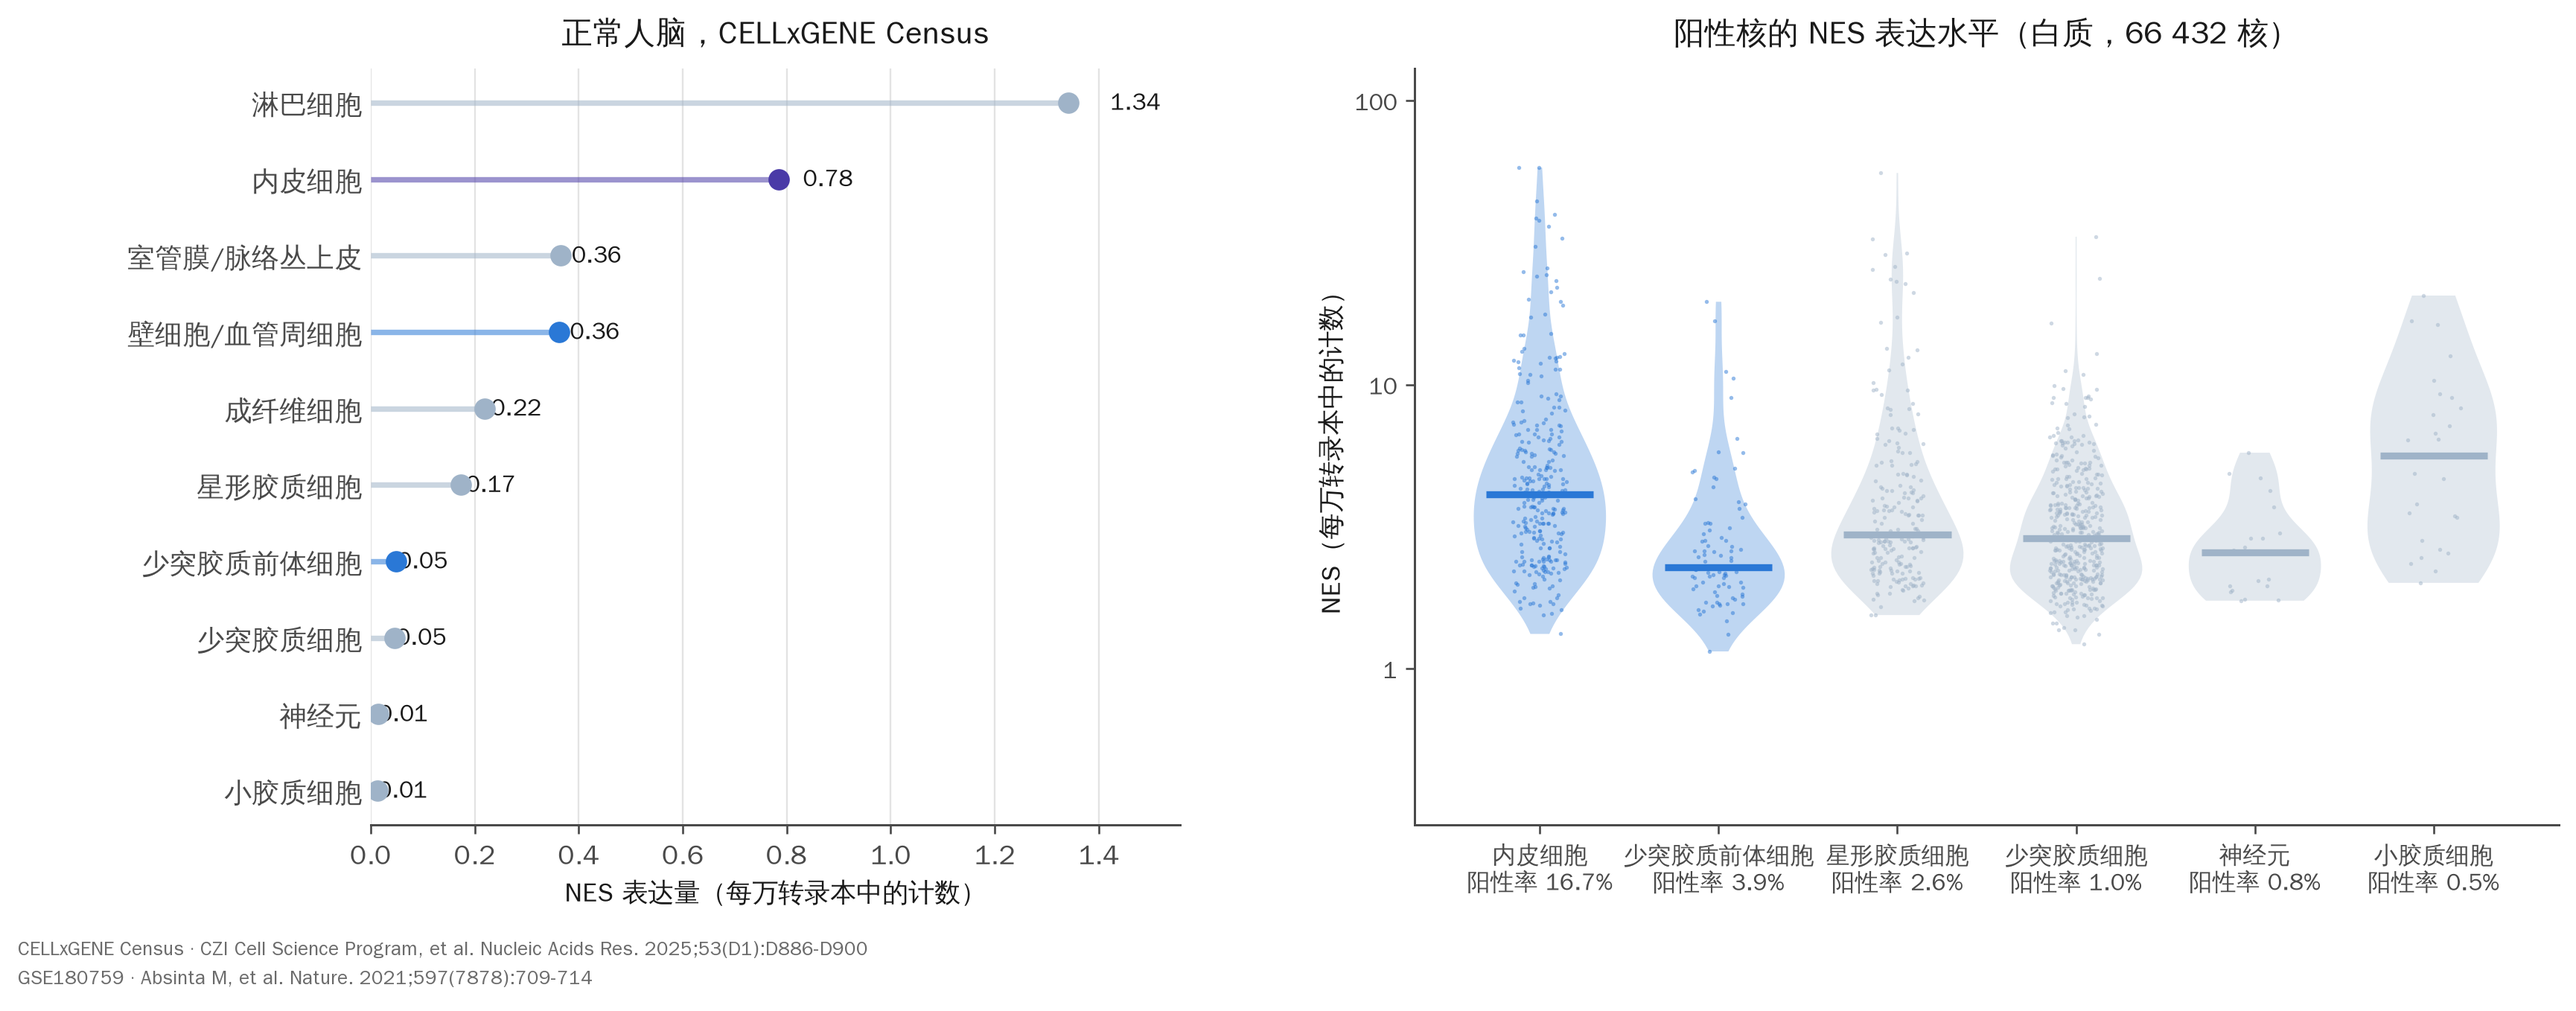
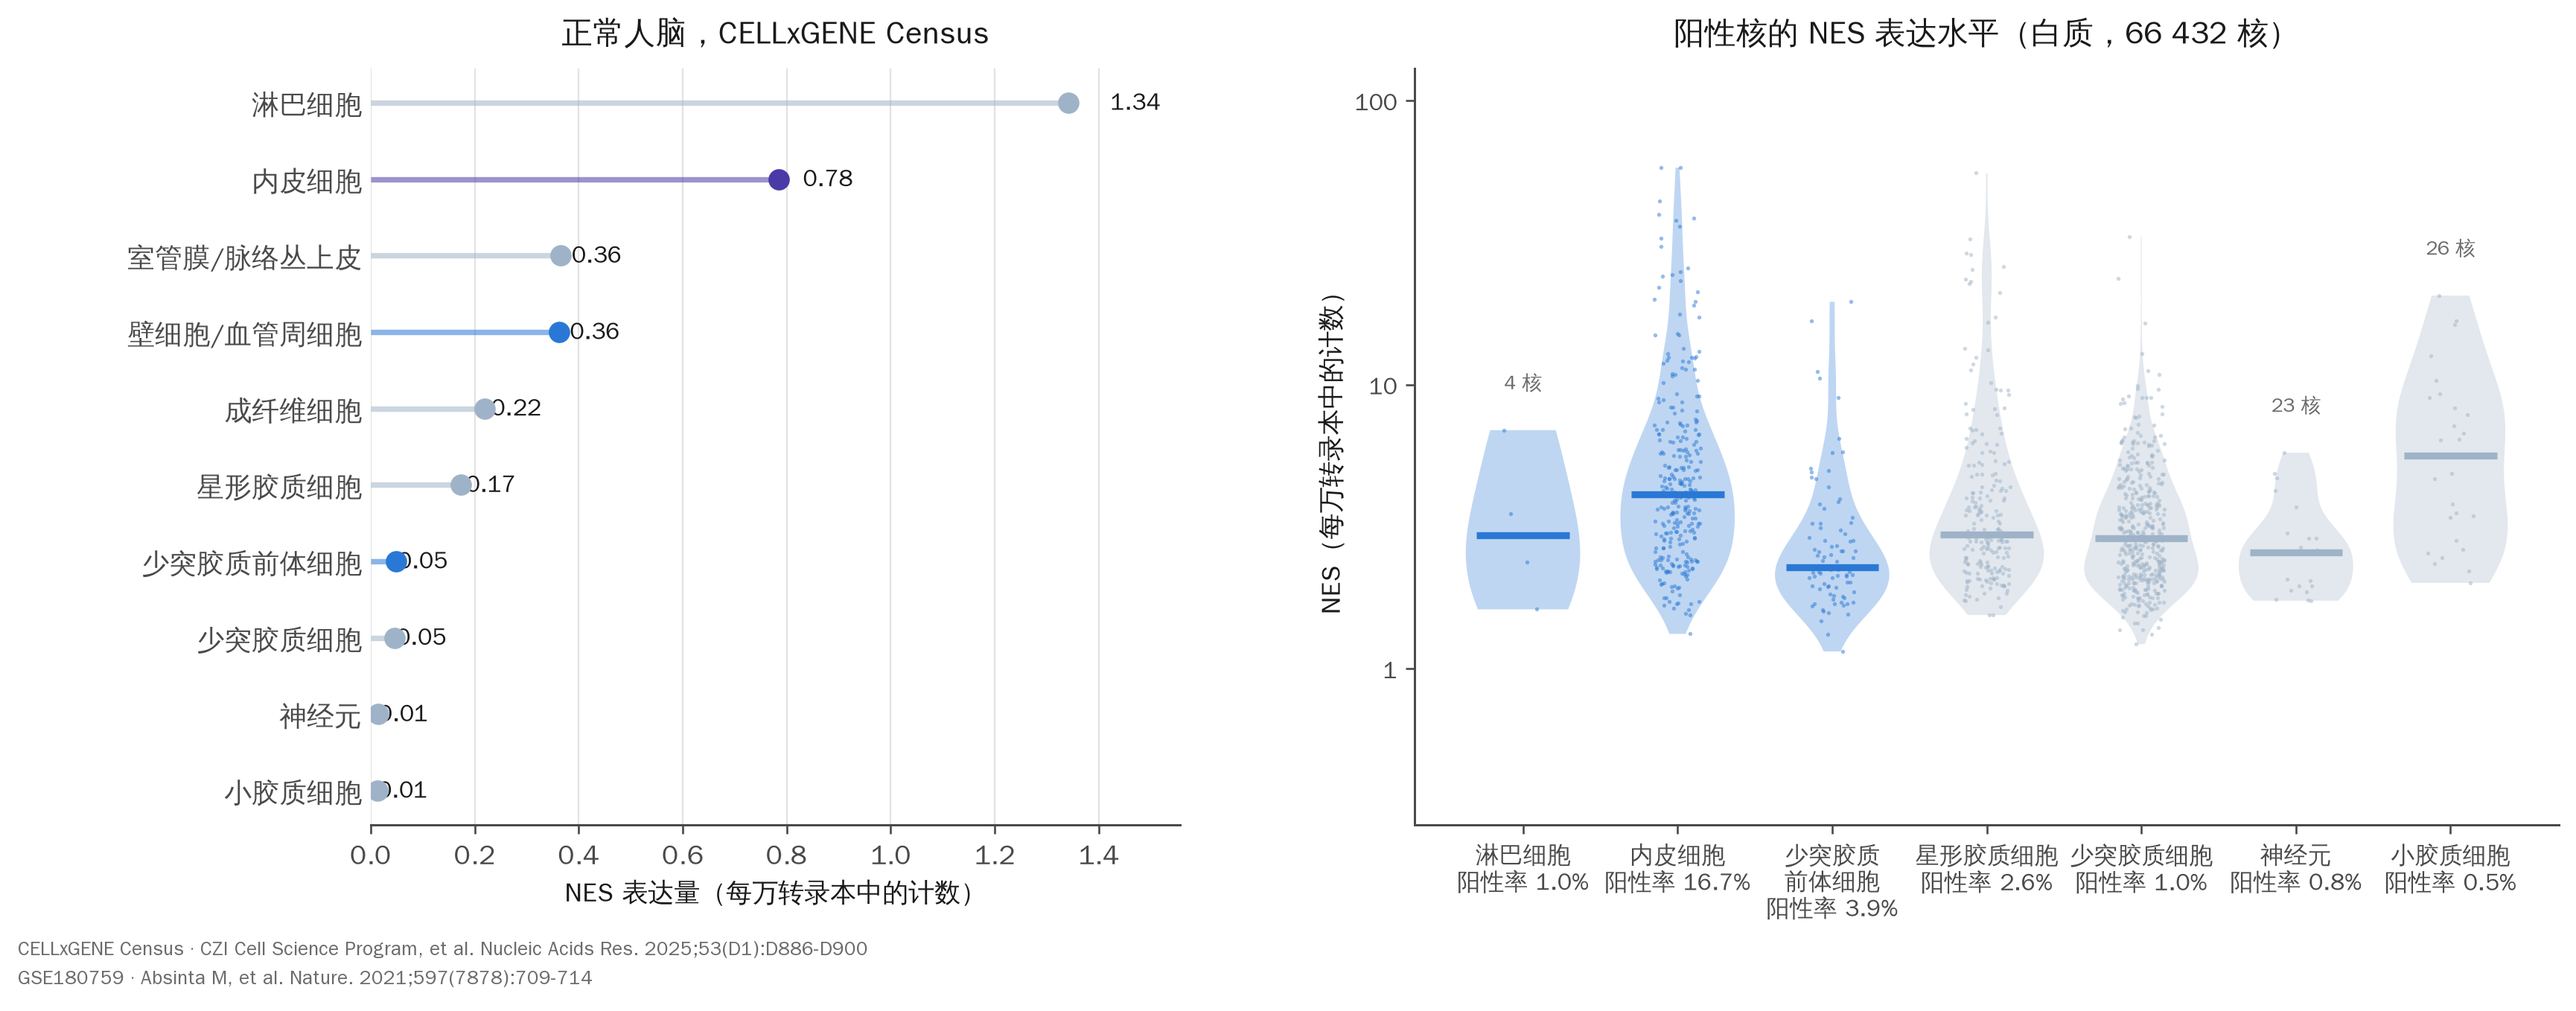
Put lymphocytes back into the Nestin single-nucleus panel
They were missing from the panel's cell-type list while topping the Census
ranking beside it, so the one row a reader would go to the right-hand panel to
check was the one row absent.

With them present the two panels disagree openly: Census puts 19 percent of
brain lymphocytes NES-positive, white matter puts 1 percent, on four positive
nuclei out of 406. Panels with fewer than thirty positive nuclei now carry
that count above the violin.

Claude-Session: https://claude.ai/code/session_01Puq8M8AiJGJDbdbxajvkZL

Changed region(s): [[0.5618, 0.1856, 0.9676, 0.6495], [0.5618, 0.8351, 0.9676, 0.9278], [0.9676, 0.4021, 0.9988, 0.4639]]

diff --git a/scripts/mda5/mkfig_nes.py b/scripts/mda5/mkfig_nes.py
@@ -21,9 +21,10 @@ NAME = {'endothelial': '内皮细胞', 'fibroblast': '成纤维细胞',
         'OPC': '少突胶质前体细胞', 'oligodendrocyte': '少突胶质细胞', 'neuron': '神经元'}
 CT180 = {'oligodendrocytes': '少突胶质细胞', 'astrocytes': '星形胶质细胞',
          'immune': '小胶质细胞', 'neurons': '神经元', 'opc': '少突胶质前体细胞',
-         'vascular_cells': '内皮细胞'}
-ORDER180 = ['vascular_cells', 'opc', 'astrocytes', 'oligodendrocytes',
-            'neurons', 'immune']
+         'vascular_cells': '内皮细胞', 'lymphocytes': '淋巴细胞'}
+# 淋巴细胞必须在列：它是左图的第一名，读者会到右图核对。
+ORDER180 = ['lymphocytes', 'vascular_cells', 'opc', 'astrocytes',
+            'oligodendrocytes', 'neurons', 'immune']
 
 base = pd.read_csv(RES + 'out_nes_baseline.csv')
 base = base[base.grp.isin(NAME)].copy()
@@ -60,12 +61,12 @@ ax.grid(axis='x', color=F.HAIR, lw=0.7, alpha=0.7); ax.set_axisbelow(True)
 ax2 = fig.add_subplot(gs[0, 1])
 rng = np.random.default_rng(3)
 tops = []; xlab = []
-order = [k for k in ORDER180 if (ctrl.ct == k).sum() > 400]
+order = [k for k in ORDER180 if (ctrl.ct == k).sum() >= 200]
 for i, k in enumerate(order):
     v = ctrl[ctrl.ct == k].CP10k.values
     nz = v[v > 0]
-    col = F.BLUE if k in ('vascular_cells', 'opc') else '#9fb3c8'
-    if len(nz) > 5:
+    col = F.BLUE if k in ('vascular_cells', 'opc', 'lymphocytes') else '#9fb3c8'
+    if len(nz) >= 3:
         p = ax2.violinplot([np.log10(nz)], positions=[i], widths=0.74,
                            showextrema=False, showmedians=False)
         for b in p['bodies']:
@@ -75,8 +76,12 @@ for i, k in enumerate(order):
                     s=2.6, color=col, alpha=0.5, linewidths=0, rasterized=True)
         ax2.hlines(np.log10(np.median(nz)), i - 0.3, i + 0.3, color=col, lw=2.8, zorder=6)
         tops.append(np.log10(nz).max())
-    xlab.append(f'{CT180[k]}\n阳性率 {100 * len(nz) / len(v):.1f}%')
-ax2.set_xticks(range(len(order))); ax2.set_xticklabels(xlab, fontsize=8.8)
+        if len(nz) < 30:
+            ax2.text(i, np.log10(nz).max() + 0.13, f'{len(nz)} 核',
+                     ha='center', va='bottom', fontsize=8, color=F.MUT)
+    xlab.append(f'{CT180[k]}\n阳性率 {100 * len(nz) / len(v):.1f}%'
+                .replace('少突胶质前体细胞', '少突胶质\n前体细胞'))
+ax2.set_xticks(range(len(order))); ax2.set_xticklabels(xlab, fontsize=8.4)
 ax2.set_xlim(-0.7, len(order) - 0.3)
 ax2.set_ylabel(f'{GENE}（每万转录本中的计数）', fontsize=10.5)
 ax2.set_yticks([0, 1, 2]); ax2.set_yticklabels(['1', '10', '100'])
